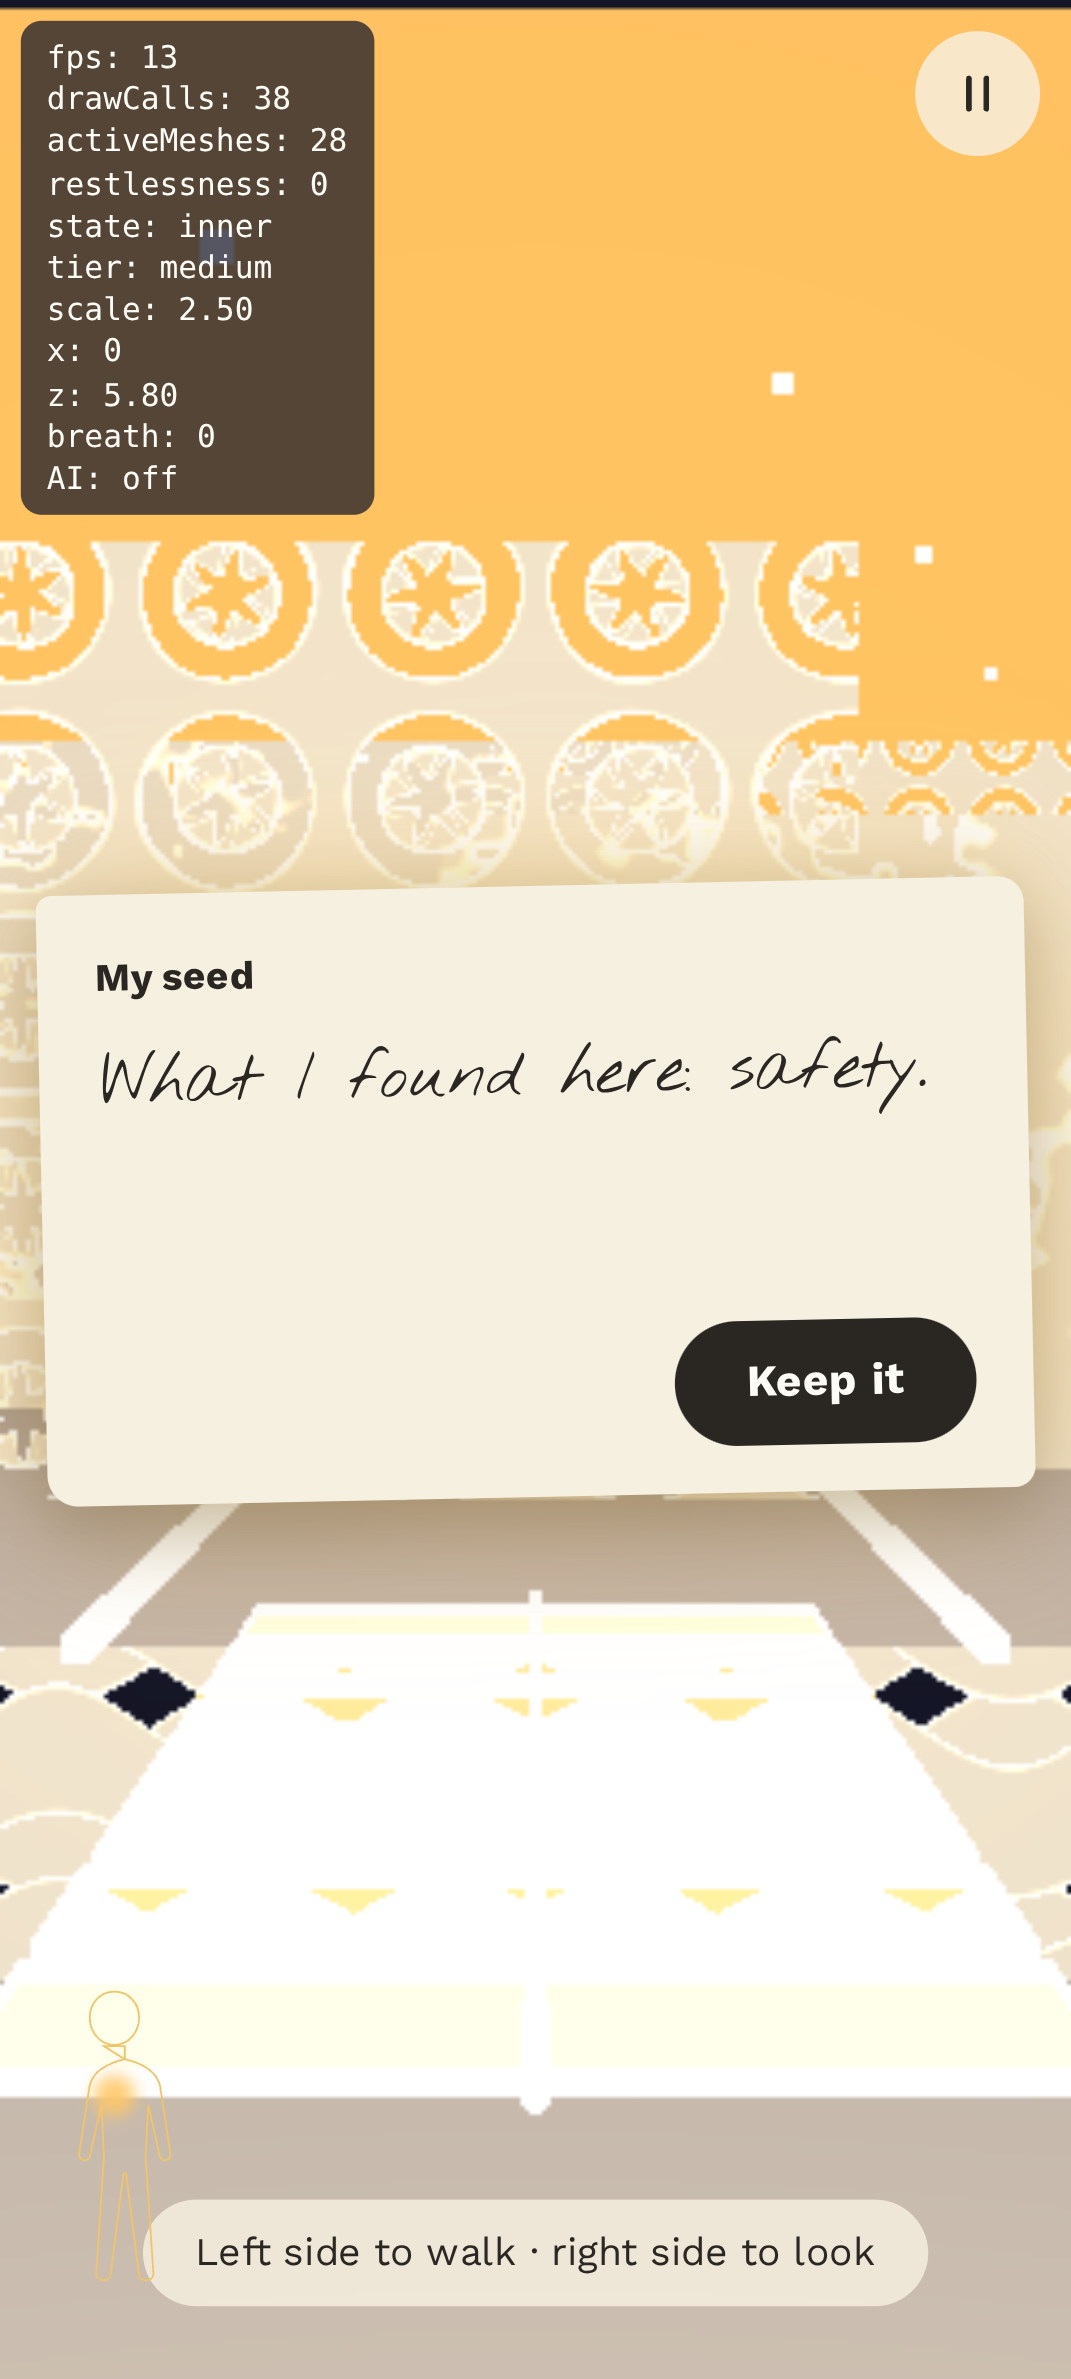
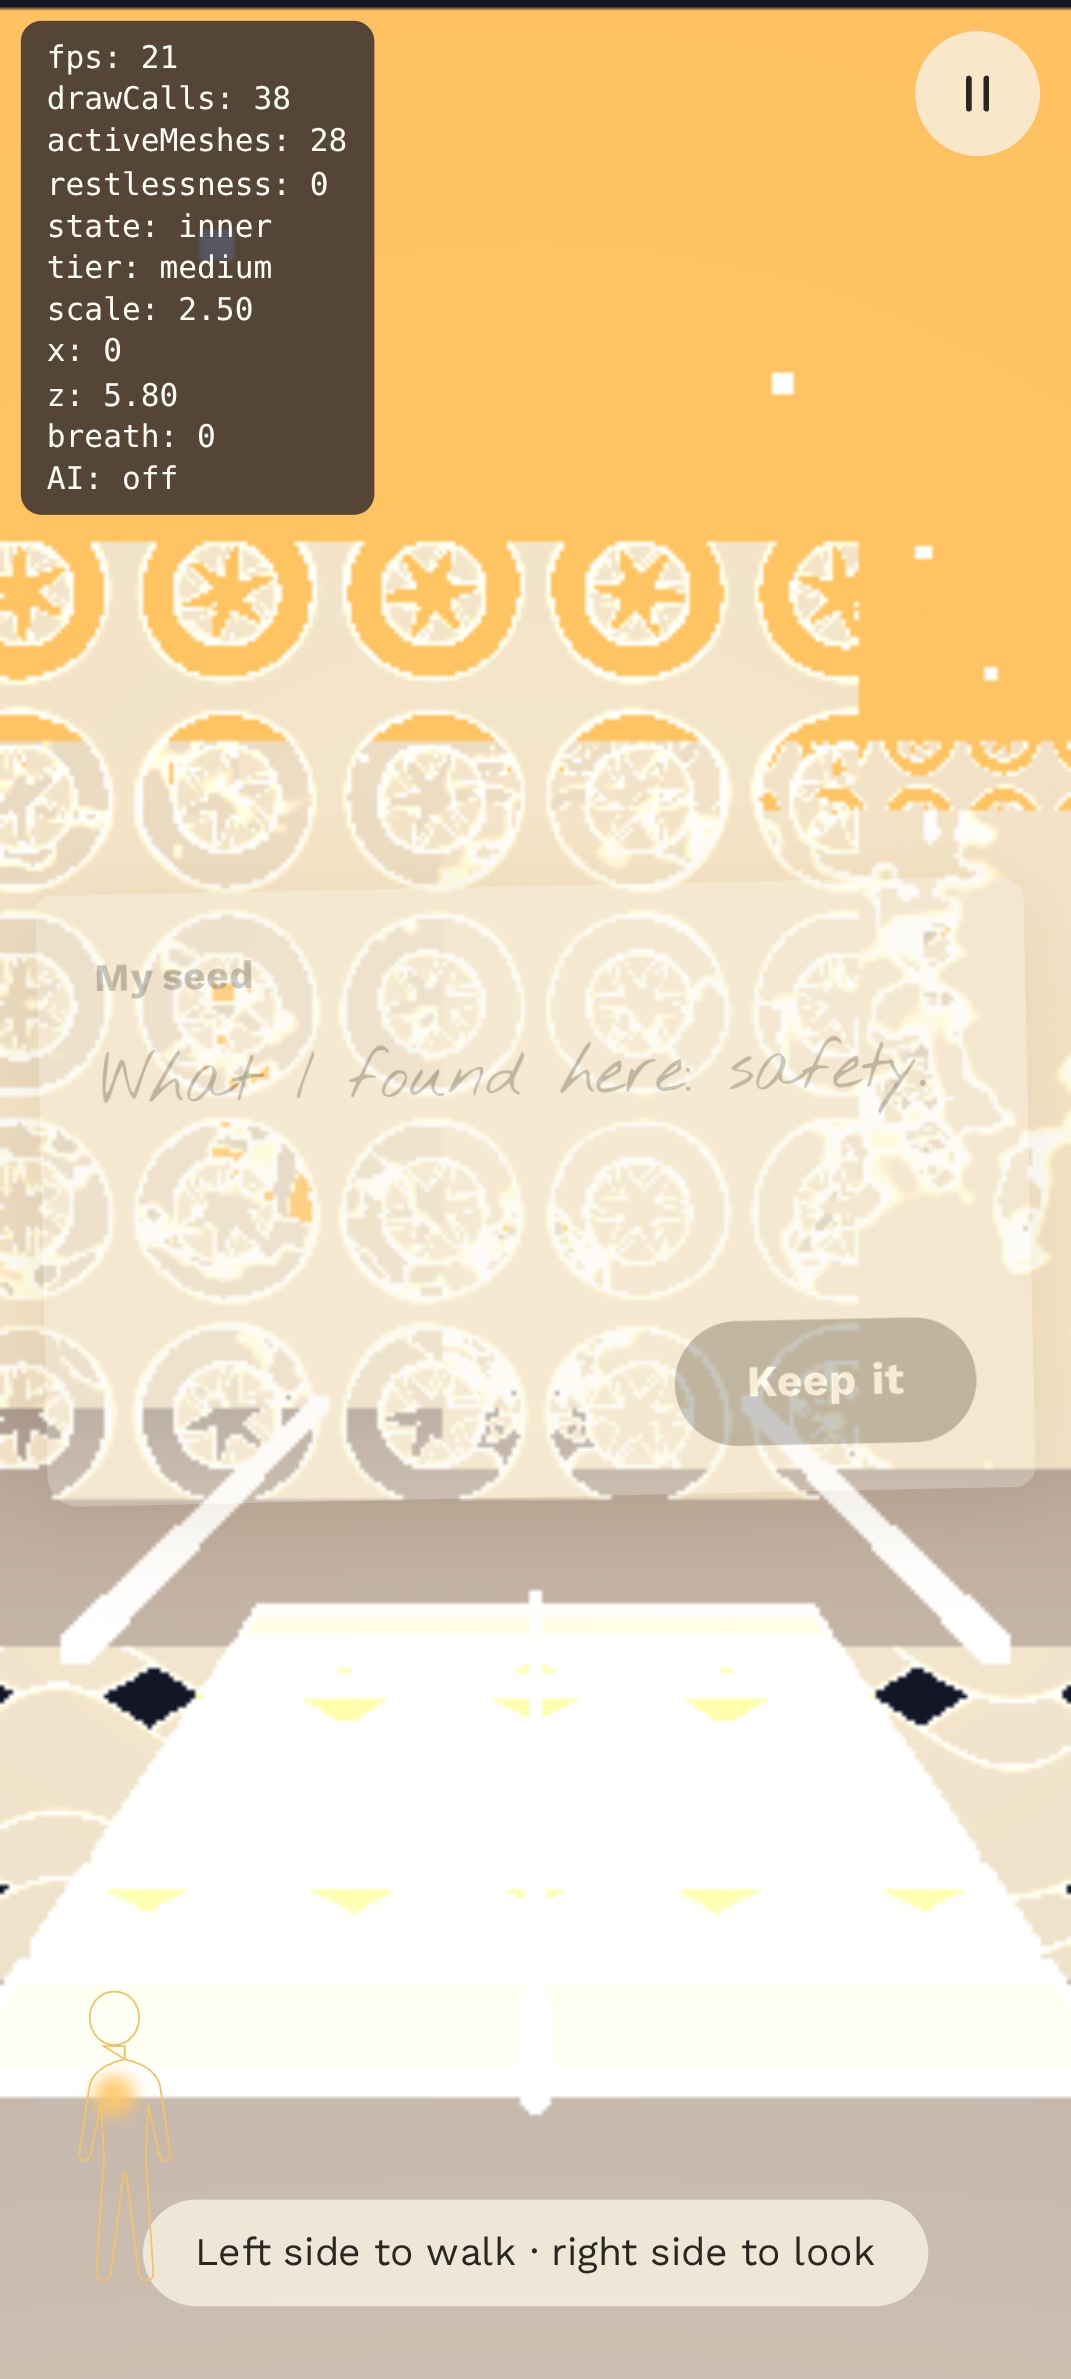
Answer chips and follow-ups fit each disturbance's own soul question
Claude-Session: https://claude.ai/code/session_0182pGGL72VS1QKVP5Tc2fnZ

diff --git a/tests/unit/reflect.test.ts b/tests/unit/reflect.test.ts
@@ -4,6 +4,7 @@ import {
   fallback,
   matchPlaceKey,
   matchTheme,
+  soulChips,
   parseModelJson,
   validateResponse,
 } from '../../src/logic/reflect';
@@ -59,10 +60,14 @@ describe('fallback', () => {
     for (const type of disturbances.order) {
       for (const key of tables.round1.chips) {
         const ctx = { type, form: disturbances.types[type].forms[0], history: [], freeText: null };
-        const r1 = fallback(tables, { ...ctx, step: 'place', chip: tables.round1.text[key] });
+        // The chip the player sees answers this type's soul question.
+        const chip = tables.round1.byType[type][key];
+        expect(chip, `${type}.${key}`).toBeTruthy();
+        const r1 = fallback(tables, { ...ctx, step: 'place', chip });
         expect(r1.placeKey).toBe(key);
         expect(validateSceneSpec(r1.sceneSpec)).not.toBeNull();
-        expect(r1.question).toBe(tables.round2.question[key]);
+        expect(r1.question).toBe(tables.round2.byType[type][key]);
+        expect(r1.question).toMatch(/\?$/);
         expect(validateResponse(tables, 'place', r1)).not.toBeNull();
         for (const theme of r1.chips) {
           const r2 = fallback(tables, { ...ctx, step: 'theme', chip: theme, placeKey: key });
@@ -88,6 +93,18 @@ describe('fallback', () => {
     const r = fallback(tables, { type: 'money', form: 'slot machine', step: 'theme', history: [], chip: null, freeText: 'I just want to rest for once. Really.' });
     expect(r.theme).toBe('Rest');
     expect(r.seed).toBe('I just want to rest for once.');
+  });
+});
+
+describe('soul chips fit the soul question', () => {
+  it('every type has 6 own answers, all different, short, and one per place key', () => {
+    for (const type of disturbances.order) {
+      const chips = soulChips(tables, type);
+      expect(chips).toHaveLength(6);
+      expect(new Set(chips).size).toBe(6);
+      for (const c of chips) expect(c.length).toBeLessThanOrEqual(34);
+      chips.forEach((c, i) => expect(matchPlaceKey(tables, c, type)).toBe(tables.round1.chips[i]));
+    }
   });
 });
 

diff --git a/src/logic/reflect.ts b/src/logic/reflect.ts
@@ -46,8 +46,10 @@ export function buildRequest(ctx: ReflectContext): Record<string, unknown> {
 }
 
 /** Round 1: find the chip key for text (chip text or own words). Longest keyword wins. */
-export function matchPlaceKey(tables: FallbackTables, text: string): ChipKey {
+export function matchPlaceKey(tables: FallbackTables, text: string, type?: string): ChipKey {
   const t = text.toLowerCase().replace(/[’‘]/g, "'");
+  const own = type ? tables.round1.byType?.[type] : undefined;
+  if (own) for (const key of tables.round1.chips) if (own[key]?.toLowerCase() === t.trim()) return key;
   for (const key of tables.round1.chips) if (tables.round1.text[key].toLowerCase() === t.trim()) return key;
   let best: ChipKey = 'unsure';
   let bestLen = 0;
@@ -100,13 +102,24 @@ export function seedFromWords(text: string): string | null {
   return /[.!?]$/.test(s) ? s : `${s}.`;
 }
 
+/** The chips that answer a type's soul question (falls back to the general chips). */
+export function soulChips(tables: FallbackTables, type: string): string[] {
+  const own = tables.round1.byType?.[type];
+  return tables.round1.chips.map((k) => own?.[k] ?? tables.round1.text[k]);
+}
+
+/** The follow-up question for a type and chip key. */
+export function followUp(tables: FallbackTables, type: string, key: ChipKey): string {
+  return tables.round2.byType?.[type]?.[key] ?? tables.round2.question[key];
+}
+
 /** The offline answer. Always valid, for every type × chip × theme. */
 export function fallback(tables: FallbackTables, ctx: ReflectContext): ReflectResult {
   const answer = ctx.freeText || ctx.chip || '';
   if (ctx.step === 'place') {
-    const key = matchPlaceKey(tables, answer);
+    const key = matchPlaceKey(tables, answer, ctx.type);
     return {
-      question: tables.round2.question[key],
+      question: followUp(tables, ctx.type, key),
       chips: [...tables.round2.themes[key], OTHER_THEME],
       theme: null,
       sceneSpec: structuredCloneSpec(tables.round1.scene[key]),

diff --git a/src/flow/Journey.ts b/src/flow/Journey.ts
@@ -6,7 +6,7 @@ import { reflect } from '../core/reflectClient';
 import { router } from '../core/router';
 import { memory } from '../core/save';
 import type { ChipKey } from '../logic/contentTypes';
-import { OTHER_THEME, type ReflectResult } from '../logic/reflect';
+import { OTHER_THEME, soulChips, type ReflectResult } from '../logic/reflect';
 import { isCrisis } from '../logic/safety';
 import type { SceneSpec } from '../logic/sceneSpec';
 import { buildInner, type BuiltInner } from '../inner/buildInner';
@@ -96,7 +96,7 @@ export class Journey {
     const b = el('button', { class: 'lw-soul lw-hand', 'data-testid': 'soul-ask' }, [t('soul.ask')]);
     b.addEventListener('click', () => {
       audio.chime(1, 0.14);
-      void this.clearUi().then(() => this.ask(content().fallback.soul[this.d.type], content().fallback.round1.chips.map((k) => content().fallback.round1.text[k]), 'place'));
+      void this.clearUi().then(() => this.ask(content().fallback.soul[this.d.type], soulChips(content().fallback, this.d.type), 'place'));
     });
     uiRoot().append(b);
     fadeIn(b);

diff --git a/tests/e2e/m7.spec.ts b/tests/e2e/m7.spec.ts
@@ -67,7 +67,7 @@ test('M7 ai bad JSON falls back', async ({ page }) => {
   await inside(page);
   await ownWords(page, 'I want it so much');
   await waitStep(page, 'answer2');
-  await expect(page.getByTestId('question')).toHaveText('What would having it give you?');
+  await expect(page.getByTestId('question')).toHaveText('What would being reached give you?');
   expect((await lw<{ AI: string }>(page, 'stats')).AI).toBe('fallback');
   expectClean(w);
 });
@@ -82,7 +82,7 @@ test('M7 ai timeout falls back', async ({ page }) => {
   await inside(page);
   await ownWords(page, 'I am afraid to lose it');
   await waitStep(page, 'answer2', 30_000);
-  await expect(page.getByTestId('question')).toHaveText('What are you afraid of losing?');
+  await expect(page.getByTestId('question')).toHaveText('If you missed nothing, what would you have?');
   expectClean(w);
 });
 

diff --git a/src/core/content.ts b/src/core/content.ts
@@ -38,6 +38,10 @@ export function validateContent(c: Content): void {
     const d = c.disturbances.types[t];
     if (!d || d.forms.length !== 3) throw new Error(`content: bad type ${t}`);
     if (typeof c.fallback.soul[t] !== 'string') throw new Error(`content: no soul question for ${t}`);
+    for (const k of c.fallback.round1.chips) {
+      if (!c.fallback.round1.byType?.[t]?.[k]) throw new Error(`content: no answer chip ${t}.${k}`);
+      if (!c.fallback.round2.byType?.[t]?.[k]) throw new Error(`content: no follow-up ${t}.${k}`);
+    }
     if (typeof c.strings[d.labelKey] !== 'string') throw new Error(`content: no label for ${t}`);
   }
   for (const k of c.fallback.round1.chips) {

diff --git a/src/logic/contentTypes.ts b/src/logic/contentTypes.ts
@@ -9,11 +9,15 @@ export interface FallbackTables {
     text: Record<ChipKey, string>;
     scene: Record<ChipKey, SceneSpec>;
     keywords: Record<ChipKey, string[]>;
+    /** Answers to each type's soul question, one per chip key (so the answers fit the question). */
+    byType: Record<string, Record<ChipKey, string>>;
   };
   round2: {
     question: Record<ChipKey, string>;
     themes: Record<ChipKey, string[]>;
     keywords: Record<string, string[]>;
+    /** Follow-up question per type and chip key (fits the answer given). */
+    byType: Record<string, Record<ChipKey, string>>;
   };
   themeList: string[];
   seedTemplate: string;

diff --git a/api/reflect.ts b/api/reflect.ts
@@ -28,6 +28,7 @@ Rules:
 - Ask exactly one question, max 14 words. Never more than one question.
 - Never give advice. Never explain. Never interpret. Never diagnose. Never praise or judge.
 - Never name the player's feeling for them. Offer possible answers as short chips instead.
+- Every chip must be a direct, natural answer to your own question.
 - Reuse the player's own words where possible.
 - No spiritual, medical or therapy vocabulary. No promises. English only.
 - If the player writes about wanting to die, hurting themselves or others, do not continue the

diff --git a/docs/DECISIONS.md b/docs/DECISIONS.md
@@ -41,3 +41,4 @@ Decisions made by Claude Code during the build start at D11.
 - D34. The API function keeps only known fields (type, form, step, history, chip, freeText) with size limits before sending to OpenRouter. Reason: small, predictable requests; 4 kB limit.
 - D35. (Alexander, 2026-09-30) No pressing to breathe. A guided breath bubble (like Calm) leads the player; the breath follows it. Coming back out needs no breath. This replaces GAME_DESIGN §7 "Hold Space / hold the light".
 - D36. World text in the inner world sits on a soft dark plate; outer world text on a soft light plate. Reason: white text was hard to read on light paper.
+- D37. (Alexander, 2026-09-30) The answer chips must fit the question. Each disturbance type now has its own 6 answers to its soul question (`round1.byType`) and its own follow-up question per answer (`round2.byType`), all in `fallback.json`. Chip keys, places and hard elements stay as in CONTENT §5. The AI prompt got the rule "Every chip must be a direct, natural answer to your own question." Overrides CONTENT §5/§6 wording in play.

diff --git a/REPORT.md b/REPORT.md
@@ -198,3 +198,15 @@
 - `npm run check`: ja. Browser-Tests M3, M4, M5, M6, M8, M9-Tastatur: grün.
 
 **Neue Entscheidungen**: D35, D36.
+
+## Nachtrag 30.09. — Antworten passen zur Frage
+**Was gemacht wurde**
+- Jede Störung hat jetzt eigene 6 Antworten auf ihre Seelen-Frage. Beispiel "Whose eyes do you want on you?" → "My parents'", "Anyone's, so I'm not forgotten", "Those who overlooked me", "Everyone's", "No one's. I'd rather hide", "Maybe my own".
+- Auch die zweite Frage passt jetzt zur gewählten Antwort (z. B. "What would their eyes give you?").
+- Die KI hat eine neue Regel: jeder Chip muss direkt auf ihre Frage antworten.
+- Alle Texte stehen in `fallback.json` und in `docs/CONTENT.md` (Abschnitte 5a, 6a) zum Nachlesen.
+
+**Funktioniert es**
+- `npm run check` (55 Tests, neu: jede Antwort gehört zu genau einer Art) und Browser-Tests M5, M7: grün.
+
+**Neue Entscheidungen**: D37.
